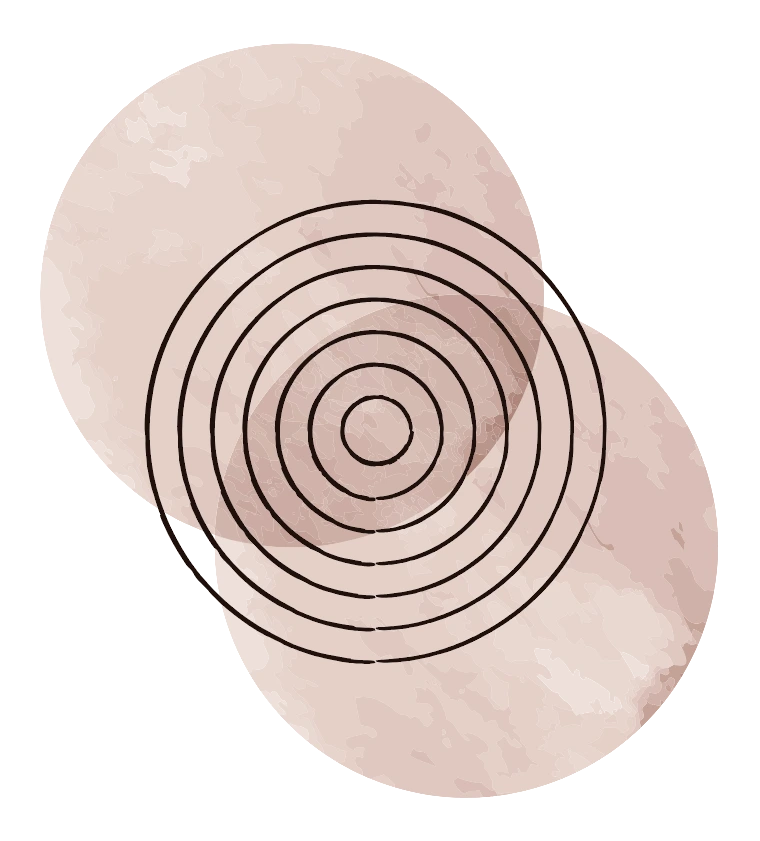
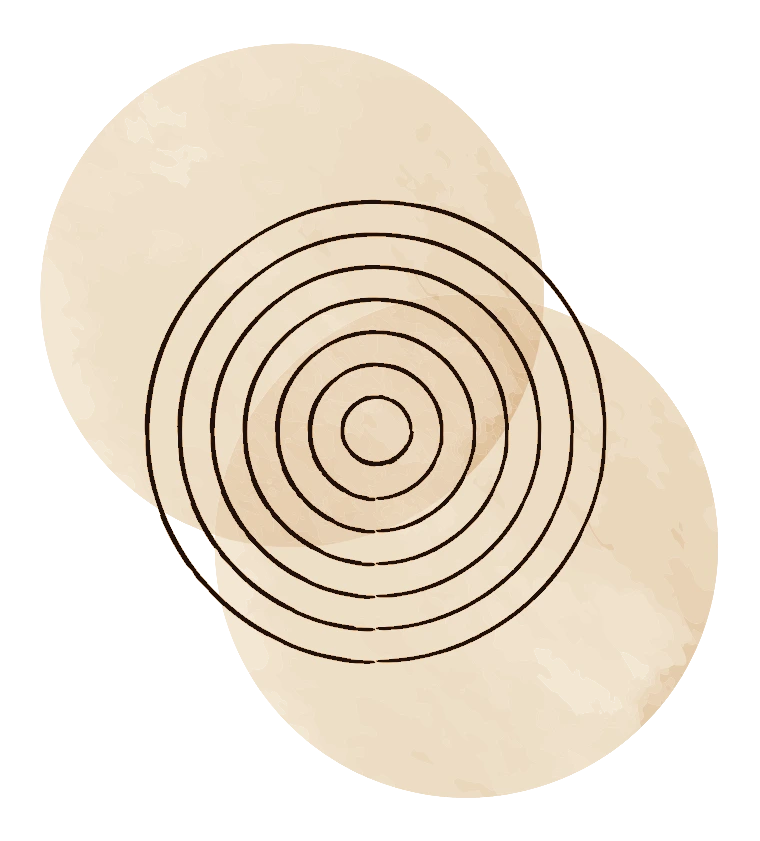
Skice: motiv 14 premjesten u gornji desni kut i preboјen u tople glinene tonove kao biljke
- hladne roze akvarelne mrlje preslikane na raspon #C8965C -> #F4E8D6 iz palete
- crne kruznice ostaju #1F0F0A kao biljke

Claude-Session: https://claude.ai/code/session_0112W6WYK3vXVwizVTsW69bf

diff --git a/naslovna-novo-2.html b/naslovna-novo-2.html
@@ -119,8 +119,8 @@ nav a:hover{color:var(--terra-bright)}
 .v-left{left:clamp(1.5rem,4vw,4.5rem);bottom:-46px;height:min(96%,600px);width:auto;opacity:.92}
 /* abstrakt2 · 8 — odmah do biljke */
 .v-left2{left:calc(clamp(1.5rem,4vw,4.5rem) + min(15vw,265px));bottom:-26px;height:min(30%,200px);width:auto;opacity:.92}
-/* abstrakt1 · 14 — desni kut */
-.v-right{right:clamp(1.5rem,4vw,4.5rem);bottom:-40px;height:min(58%,400px);width:auto;opacity:.92}
+/* abstrakt1 · 14 — gornji desni kut */
+.v-right{right:clamp(1.5rem,4vw,4.5rem);top:-40px;height:min(58%,400px);width:auto;opacity:.92}
 /* abstrakt3 · 11 — iza slova, izblijedjeno */
 .v-bg{left:50%;top:50%;transform:translate(-50%,-50%);height:min(128%,760px);width:auto;opacity:.15}
 .v-in{position:relative;z-index:1;max-width:820px;margin:0 auto;text-align:center}

diff --git a/naslovna-novo-3.html b/naslovna-novo-3.html
@@ -110,8 +110,8 @@ nav a:hover{color:var(--terra)}
 .v-left{left:clamp(1.5rem,4vw,4.5rem);bottom:-46px;height:min(96%,600px);width:auto;opacity:.92}
 /* abstrakt2 · 8 — odmah do biljke */
 .v-left2{left:calc(clamp(1.5rem,4vw,4.5rem) + min(15vw,265px));bottom:-26px;height:min(30%,200px);width:auto;opacity:.92}
-/* abstrakt1 · 14 — desni kut */
-.v-right{right:clamp(1.5rem,4vw,4.5rem);bottom:-40px;height:min(58%,400px);width:auto;opacity:.92}
+/* abstrakt1 · 14 — gornji desni kut */
+.v-right{right:clamp(1.5rem,4vw,4.5rem);top:-40px;height:min(58%,400px);width:auto;opacity:.92}
 /* abstrakt3 · 11 — iza slova, izblijedjeno */
 .v-bg{left:50%;top:50%;transform:translate(-50%,-50%);height:min(128%,760px);width:auto;opacity:.15}
 .v-in{position:relative;z-index:1;max-width:820px;margin:0 auto;text-align:center}

diff --git a/naslovna-novo.html b/naslovna-novo.html
@@ -114,8 +114,8 @@ nav a:hover{color:var(--terra)}
 .v-left{left:clamp(1.5rem,4vw,4.5rem);bottom:-46px;height:min(96%,600px);width:auto;opacity:.92}
 /* abstrakt2 · 8 — odmah do biljke */
 .v-left2{left:calc(clamp(1.5rem,4vw,4.5rem) + min(15vw,265px));bottom:-26px;height:min(30%,200px);width:auto;opacity:.92}
-/* abstrakt1 · 14 — desni kut */
-.v-right{right:clamp(1.5rem,4vw,4.5rem);bottom:-40px;height:min(58%,400px);width:auto;opacity:.92}
+/* abstrakt1 · 14 — gornji desni kut */
+.v-right{right:clamp(1.5rem,4vw,4.5rem);top:-40px;height:min(58%,400px);width:auto;opacity:.92}
 /* abstrakt3 · 11 — iza slova, izblijedjeno */
 .v-bg{left:50%;top:50%;transform:translate(-50%,-50%);height:min(128%,760px);width:auto;opacity:.15}
 .v-in{position:relative;z-index:1;max-width:820px;margin:0 auto;text-align:center}
